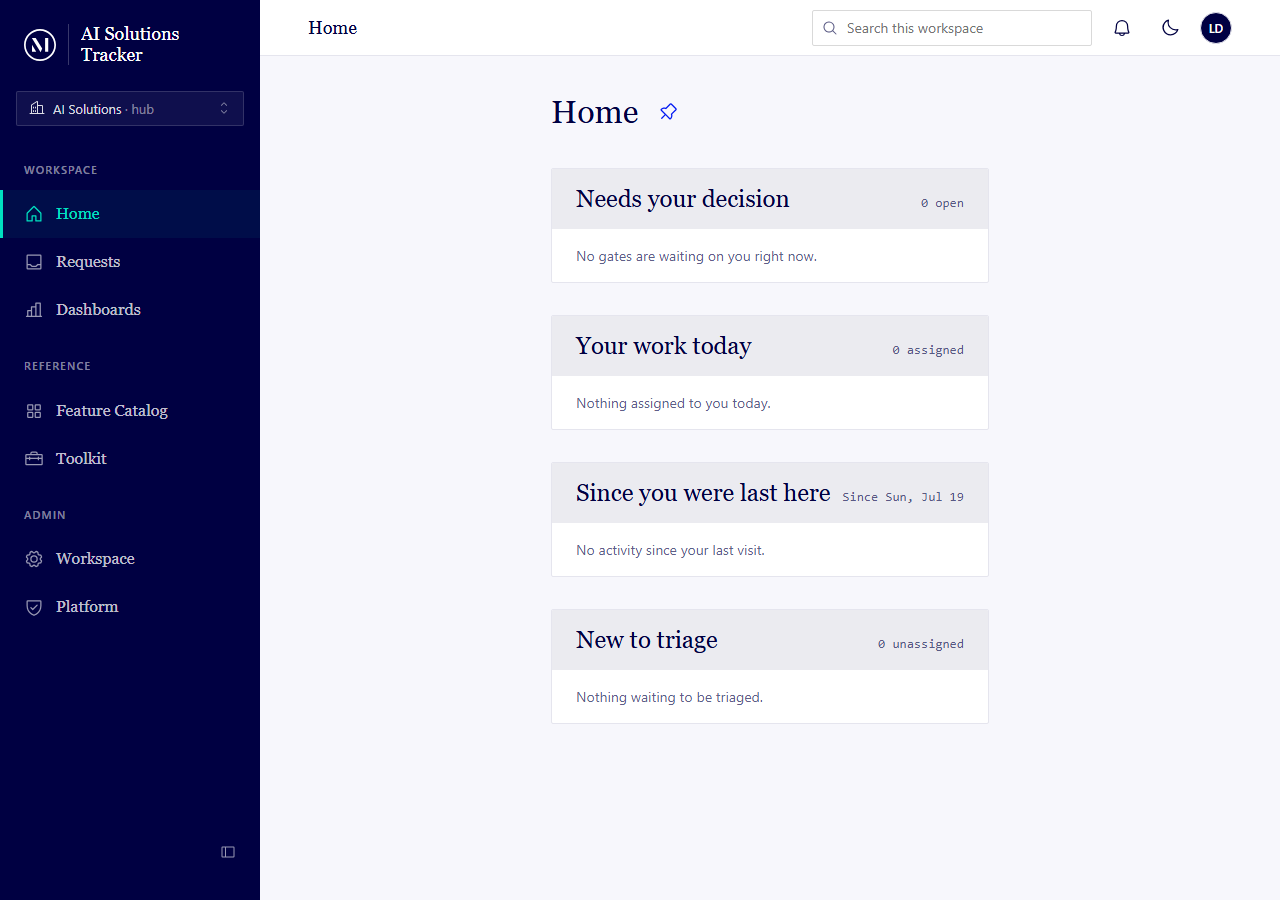
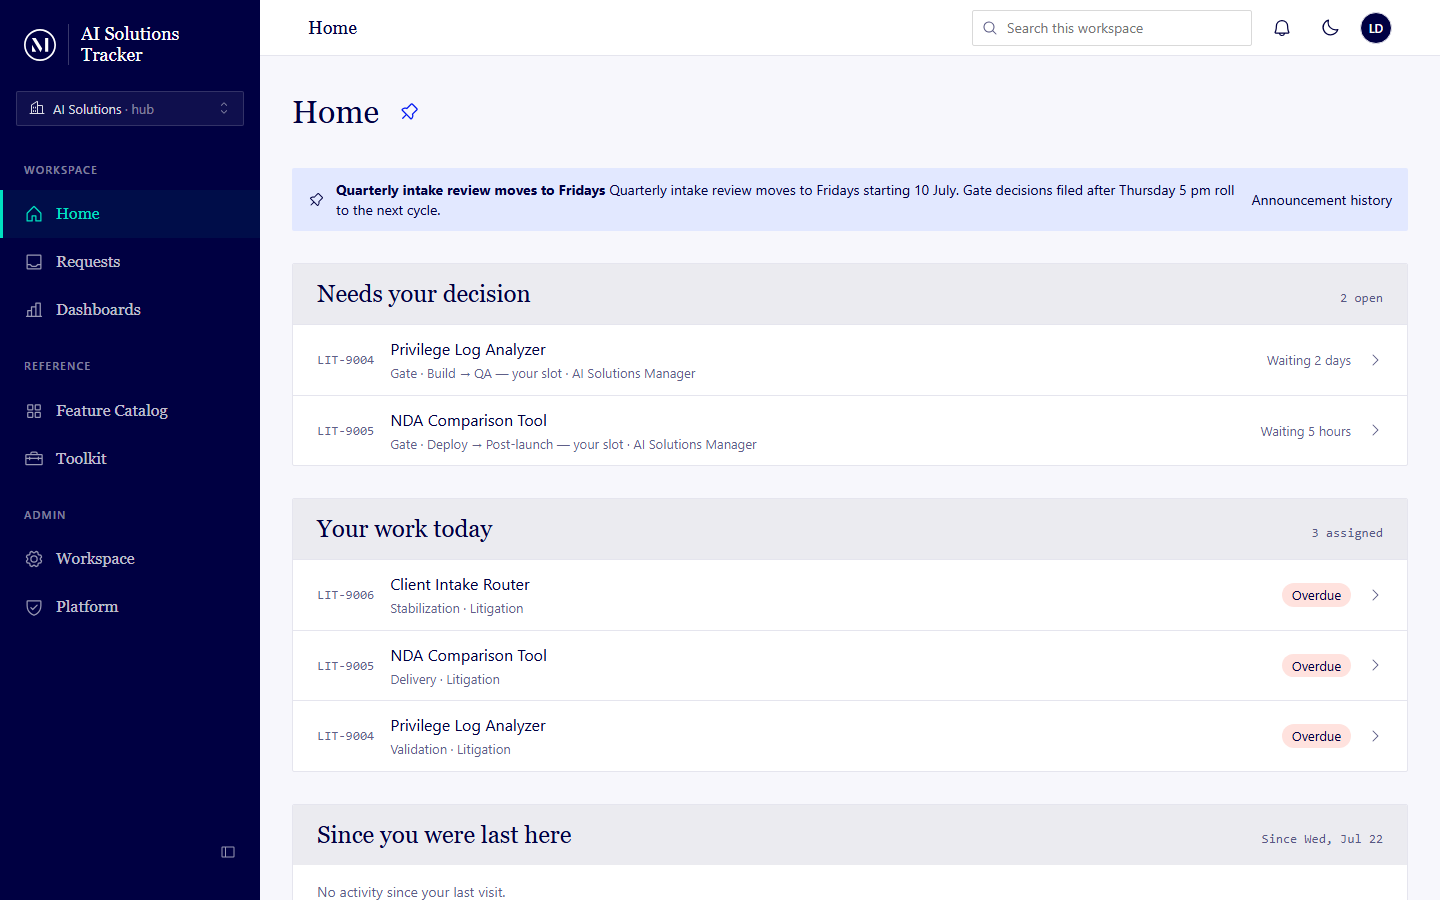
fix: box each announcement into its own card
The reader Announcements list rendered .ann-row/.ann-list markup whose CSS had been removed as dead, leaving notices unstyled and blending together. Restore them as bordered cards, and give the Manage announcements table a scoped .ann-boxed treatment so each row reads as a separate boxed announcement. Tokens only; scoped to the announcements feature so no other TableShell is affected.

diff --git a/web/src/features/announcements/announcements.css b/web/src/features/announcements/announcements.css
@@ -21,6 +21,49 @@
   min-width: 0;
 }
 
+/* Boxed-rows treatment for the Manage announcements table (S23). Each announcement reads as its
+   own bordered card with a gap between rows instead of the shared grid's hairline row rules —
+   scoped under .ann-boxed so no other TableShell (Requests, Fields, …) is affected. Tokens only. */
+
+/* Pass-through slot: reproduce the flex sizing the .ast-grid had as a direct .ann-page child. */
+.ann-boxed {
+  display: flex;
+  flex-direction: column;
+  flex: 1;
+  min-height: 0;
+  min-width: 0;
+}
+
+/* Drop the outer frame + fill so each row-card sits on the page background and reads as separate. */
+.ann-boxed .ast-grid {
+  border: none;
+  background: transparent;
+}
+
+/* Header keeps its tint + bottom rule to anchor the column labels; transparent 1px side borders
+   match the borders the rows carry so the column tracks stay aligned with the header. */
+.ann-boxed .ast-grid__head {
+  border-left: 1px solid transparent;
+  border-right: 1px solid transparent;
+}
+
+/* Each row → a card: full border, 2px radius, surface fill, and a gap to the next row. The full
+   border overrides the shared row's border-bottom-only rule (2-class scope wins on specificity). */
+.ann-boxed .ast-grid__row {
+  border: 1px solid var(--border-light);
+  border-radius: var(--radius);
+  background: var(--bg-surface);
+  margin-bottom: var(--space-3);
+}
+
+.ann-boxed .ast-grid__row:first-child {
+  margin-top: var(--space-3);
+}
+
+.ann-boxed .ast-grid__row:last-child {
+  margin-bottom: 0;
+}
+
 /* Manage table (S23) — cells composed on the shared TableShell grid. */
 .ann-table__title {
   display: inline-flex;
@@ -46,6 +89,68 @@
 
 .ann-table__muted {
   color: var(--text-secondary);
+}
+
+/* Reader announcements list (S22) — each notice is its own bordered card so announcements read as
+   separate items instead of blending into one stacked block. Composes the shared card defaults
+   (bg-surface, 1px border-light, 2px radius, space-5 padding). Tokens only. */
+.ann-list {
+  list-style: none;
+  margin: 0;
+  padding: 0;
+  display: flex;
+  flex-direction: column;
+  gap: var(--space-3);
+  min-width: 0;
+}
+
+.ann-row {
+  padding: var(--space-5);
+  background: var(--bg-surface);
+  border: 1px solid var(--border-light);
+  border-radius: var(--radius);
+}
+
+.ann-row__main {
+  display: flex;
+  flex-direction: column;
+  gap: var(--space-2);
+  min-width: 0;
+}
+
+.ann-row__title-line {
+  display: flex;
+  align-items: baseline;
+  flex-wrap: wrap;
+  gap: var(--space-3);
+  min-width: 0;
+}
+
+/* Card title in Georgia per the card-title convention (data-visualization / navigation type rules). */
+.ann-row__title {
+  font-family: var(--font-mix);
+  font-size: 18px;
+  line-height: 1.2;
+  min-width: 0;
+  overflow-wrap: break-word;
+}
+
+.ann-row__pin {
+  display: inline-flex;
+  align-items: center;
+  gap: var(--space-1);
+  font-size: 12px;
+  text-transform: uppercase;
+  letter-spacing: 0.05em;
+  color: var(--text-secondary);
+  flex-shrink: 0;
+}
+
+.ann-row__snippet {
+  margin: 0;
+  color: var(--text-secondary);
+  overflow-wrap: break-word;
+  min-width: 0;
 }
 
 /* Filtered-to-zero (bordered surface, never a pale fill — loading-empty-and-error-states.md). */

diff --git a/web/src/features/announcements/components/AnnouncementsManageTable.tsx b/web/src/features/announcements/components/AnnouncementsManageTable.tsx
@@ -102,13 +102,17 @@ export function AnnouncementsManageTable({
   });
 
   return (
-    <TableShell
-      caption="Announcements in this workspace"
-      columns={COLUMNS}
-      rows={tableRows}
-      sort={sort}
-      onSortChange={onSortChange}
-      renderFilter={renderFilter}
-    />
+    // .ann-boxed scopes the boxed-rows treatment (announcements.css) to this table only — each row
+    // reads as its own bordered card, so announcements stop blending into one another.
+    <div className="ann-boxed">
+      <TableShell
+        caption="Announcements in this workspace"
+        columns={COLUMNS}
+        rows={tableRows}
+        sort={sort}
+        onSortChange={onSortChange}
+        renderFilter={renderFilter}
+      />
+    </div>
   );
 }

diff --git a/reviews/design-fidelity-findings/fix-announcement-boxed-rows-09989d9.md b/reviews/design-fidelity-findings/fix-announcement-boxed-rows-09989d9.md
@@ -1,0 +1,35 @@
+# fix-announcement-boxed-rows — design-fidelity findings
+
+**Label:** fix-announcement-boxed-rows-09989d9
+**Handoff present:** yes (`artifacts/docs/design/project/`)
+
+## Iteration 1
+
+### Scope — audit only the prototyped screens the current build serves
+
+Every Prototype-tagged screen in the blueprint (`enumerate-blueprint-screens.sh` → S1–S6, S9–S11,
+S23, S28–S36, S38, S39, S43) carries a **blank App-route** in the master table — none is routed 1:1
+by this per-slice build. Per `design-fidelity-web.md` § Scope, each is recorded `not-implemented`
+(out-of-scope, **non-blocking**). The two announcement surfaces this change touches:
+
+- **S23 Manage announcements** is Prototype-tagged with a blank App-route → `not-implemented`,
+  out-of-scope.
+- The reader **Announcements list** (S22) is a `Save for /build` screen (no prototype presence) →
+  not required in the manifest.
+
+Both changes are a deliberate, user-requested visual iteration (box each announcement so they stop
+blending together). This intentionally diverges from the prototype's plain-list treatment; the
+divergence is expressed entirely through McDermott tokens (bordered `--bg-surface` card,
+`--border-light`, `--radius`, `--space-*`).
+
+### Rendered checks (APP / SHELL)
+
+Rendered live against the running build (web `:5173` + API `:5080`, dev auth bypass):
+
+- **APP** (`reviews/shots/APP-build.png`) — Announcements list: each notice is a distinct bordered
+  card on the page background, comfortable gaps, Georgia titles, muted snippet, published date.
+  Reads as one product with the rest of the app. **match.**
+- **SHELL** (`reviews/shots/SHELL-build.png`) — sidebar lockup + nav and top bar unchanged. **match.**
+
+**Verdict:** no blocking design-fidelity finding. APP + SHELL match; all Prototype-tagged screens
+are out-of-scope `not-implemented` (blank App-route).

diff --git a/reviews/code-review-findings/fix-announcement-boxed-rows-09989d9.md b/reviews/code-review-findings/fix-announcement-boxed-rows-09989d9.md
@@ -1,0 +1,27 @@
+# fix-announcement-boxed-rows — code review findings
+
+**Label:** fix-announcement-boxed-rows-09989d9
+**Scope:** `web/src/features/announcements/announcements.css`, `web/src/features/announcements/components/AnnouncementsManageTable.tsx`
+**Layers in scope:** frontend only
+
+## Iteration 1 — 0 findings
+
+Change is presentational only: (1) a `.ann-boxed` scoping wrapper around the shared `TableShell`
+in the Manage announcements table so each row reads as a bordered card, and (2) reader-list card
+styles for the previously-dead `.ann-list` / `.ann-row` classes on the Announcements list page.
+
+- **Design conformance (`check-design-conformance.sh --web-required`): PASS** — every colour and
+  radius in the new `announcements.css` rules traces to a `var(--…)` token (`--border-light`,
+  `--radius`, `--bg-surface`, `--space-*`, `--font-mix`, `--text-secondary`). `transparent` as a
+  border colour is allowlisted (already used in committed `attachments.css` / `savedViews.css`).
+- **web-styling.md:** SCSS-module rule N/A — this feature uses a global `announcements.css`
+  (imported once in `App.tsx`) to style the shared grid's global `ast-grid__*` classes; a CSS
+  module can't target those. `.ann-boxed` scopes the override so no other `TableShell` (Requests,
+  Fields, …) is affected. `data-ds` unaffected: the shared `TableShell` keeps `data-ds="table"`;
+  the reader `<li>` keeps `data-ds="card"`.
+- **web-component-architecture.md:** `AnnouncementsManageTable` gains one wrapper `<div>` +
+  comment; still well under 200 lines. No new state, deps, or logic.
+- **web-coding-standards.md:** no `any`, no `console.log`, no magic numbers, no dead code
+  introduced (the reader-list styles revive classes the markup already renders).
+
+No mechanical or architectural findings. All 61 announcement unit tests pass unchanged.

diff --git a/reviews/iteration-log/fix-announcement-boxed-rows-09989d9.md b/reviews/iteration-log/fix-announcement-boxed-rows-09989d9.md
@@ -1,0 +1,21 @@
+# fix-announcement-boxed-rows — iteration log
+
+**Label:** fix-announcement-boxed-rows-09989d9
+**Scope source:** uncommitted diff (fix branch `fix/announcement-boxed-rows`)
+**Files reviewed:** 2 (`web/src/features/announcements/announcements.css`, `web/src/features/announcements/components/AnnouncementsManageTable.tsx`)
+**Final status:** CLEAN
+
+## Iteration 1 — 0 code findings, 0 security findings, 0 blocking design-fidelity findings
+
+- **Design fidelity (render & compare):** APP + SHELL rendered live and `match`; all 22 Prototype-tagged
+  screens out-of-scope `not-implemented` (blank App-route, per-slice build). Manifest VALID.
+- **Phase 0 — unit tests:** 61 announcement tests pass unchanged; full suite 1510/1510 pass, coverage
+  thresholds met. No new required case (presentational change: CSS + wrapper `<div>`).
+- **Phase 1 — code review:** design conformance PASS (425 files, 0 violations); no findings.
+- **Phase 2 — security review:** no findings.
+- Auto-applied: none. Architectural surfaced: none.
+
+## Final Status: CLEAN
+- Total iterations: 1
+- Total findings fixed: 0
+- Architectural deferred/rejected: 0

diff --git a/reviews/security-review-findings/fix-announcement-boxed-rows-09989d9.md b/reviews/security-review-findings/fix-announcement-boxed-rows-09989d9.md
@@ -1,0 +1,16 @@
+# fix-announcement-boxed-rows — security review findings
+
+**Label:** fix-announcement-boxed-rows-09989d9
+**Scope:** `web/src/features/announcements/announcements.css`, `web/src/features/announcements/components/AnnouncementsManageTable.tsx`
+
+## Iteration 1 — 0 findings
+
+OWASP A01–A10 walk over the diff:
+
+- No new data flow, network call, auth check, or storage access — the change is CSS plus a
+  presentational wrapper `<div>`.
+- No `dangerouslySetInnerHTML`, `eval`, or dynamic code execution introduced.
+- No secrets, tokens, PII, or user-supplied content touched or logged.
+- No dependency added.
+
+Nothing to remediate.
